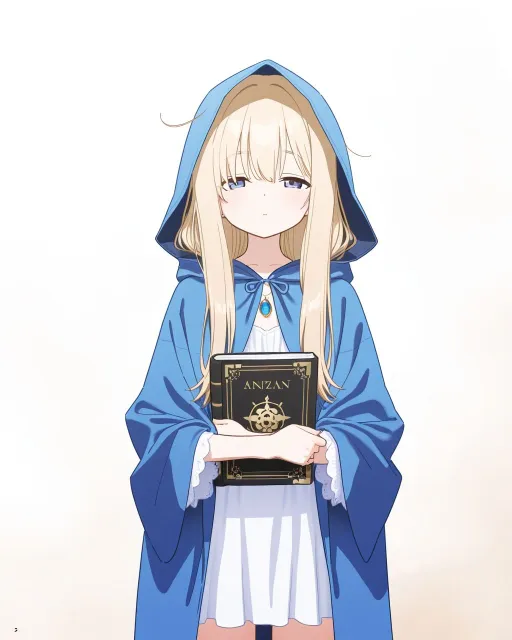
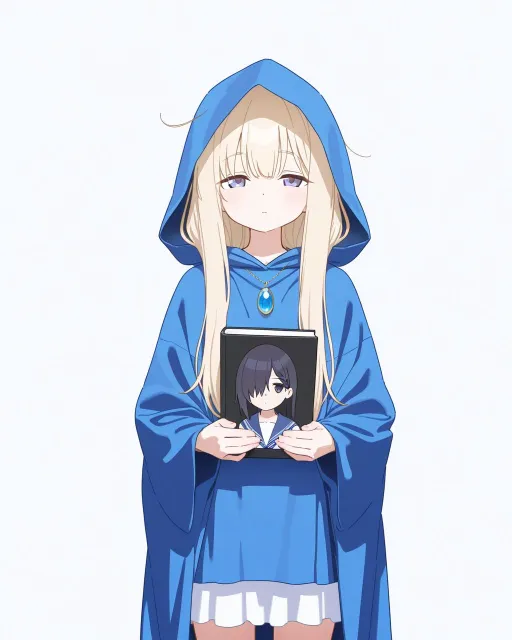
試し：B・D の追加タグから textured background を外して作り直す
Claude-Session: https://claude.ai/code/session_01UckR9EU3ASSzBWCrgYGCo7

Changed region(s): [[0.25, 0.0938, 1.0, 1.0]]

diff --git a/docs/art/compare/README.md b/docs/art/compare/README.md
@@ -5,9 +5,9 @@ seed は固定（nora 1001・sheila 1002。4通りとも同じ）。ほかの設
 | 組 | モデル | prefix に足したタグ | ノラ | シェイラ |
 |---|---|---|---|---|
 | A | `waiIllustriousSDXL_v160.safetensors [a5f58eb1c3]` | なし | ![](A/nora.webp) | ![](A/sheila.webp) |
-| B | `waiIllustriousSDXL_v160.safetensors [a5f58eb1c3]` | `(detailed face:1.4), sharp focus, (artbook style:1.2), illustrative, intricate details, textured background, pop art` | ![](B/nora.webp) | ![](B/sheila.webp) |
+| B | `waiIllustriousSDXL_v160.safetensors [a5f58eb1c3]` | `(detailed face:1.4), sharp focus, (artbook style:1.2), illustrative, intricate details, pop art` | ![](B/nora.webp) | ![](B/sheila.webp) |
 | C | `waiIllustriousSDXL_v140.safetensors [bdb59bac77]` | なし | ![](C/nora.webp) | ![](C/sheila.webp) |
 | D | `waiIllustriousSDXL_v140.safetensors [bdb59bac77]` | B と同じ | ![](D/nora.webp) | ![](D/sheila.webp) |
 
 - 生成：`node tools/gen_portraits.mjs --only <id> --force --new-seed`（一覧の seed を使わず、style.local.json の seed を使う）。512×640 に cwebp で縮めた。
-- 気づいた点：B のノラは上着に意味のない文字（「AZnu」のような字）が出た。
+- B・D の追加タグから `textured background` を外して作り直した（持ち主の依頼）。
